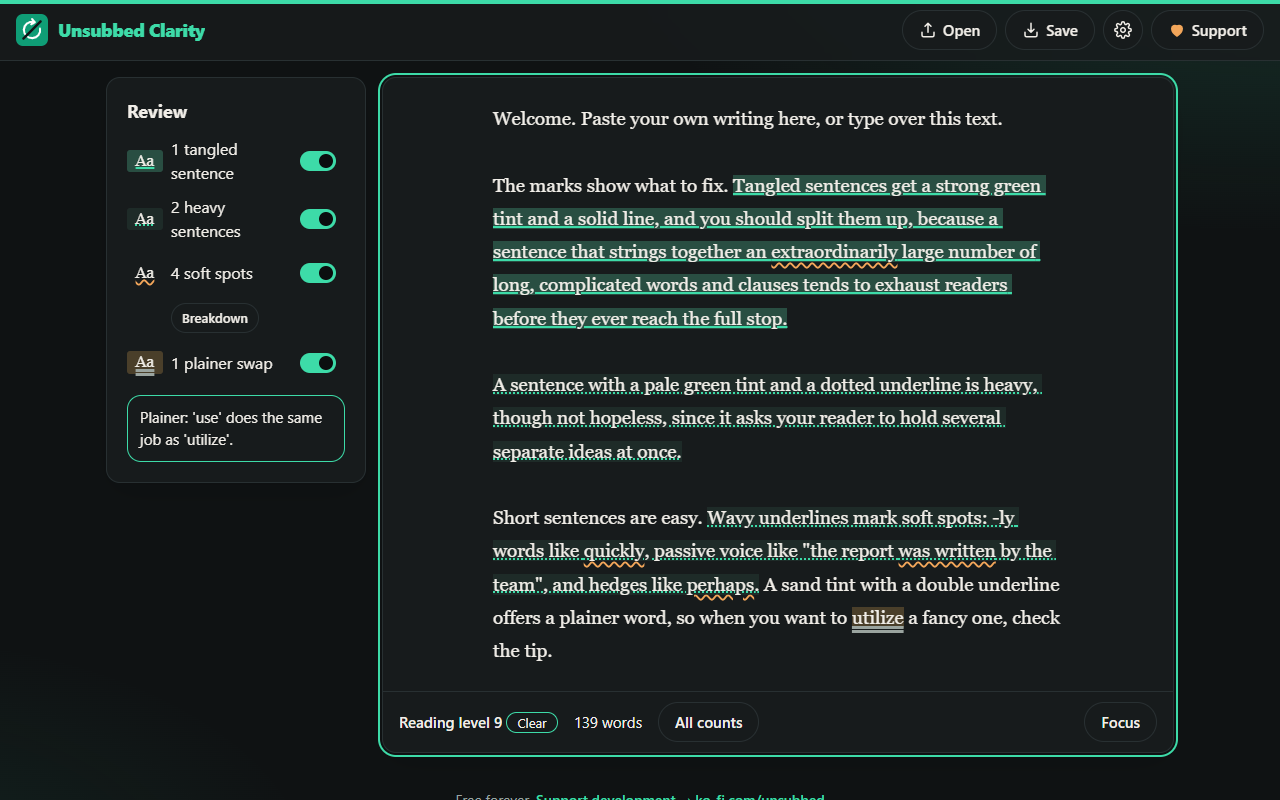
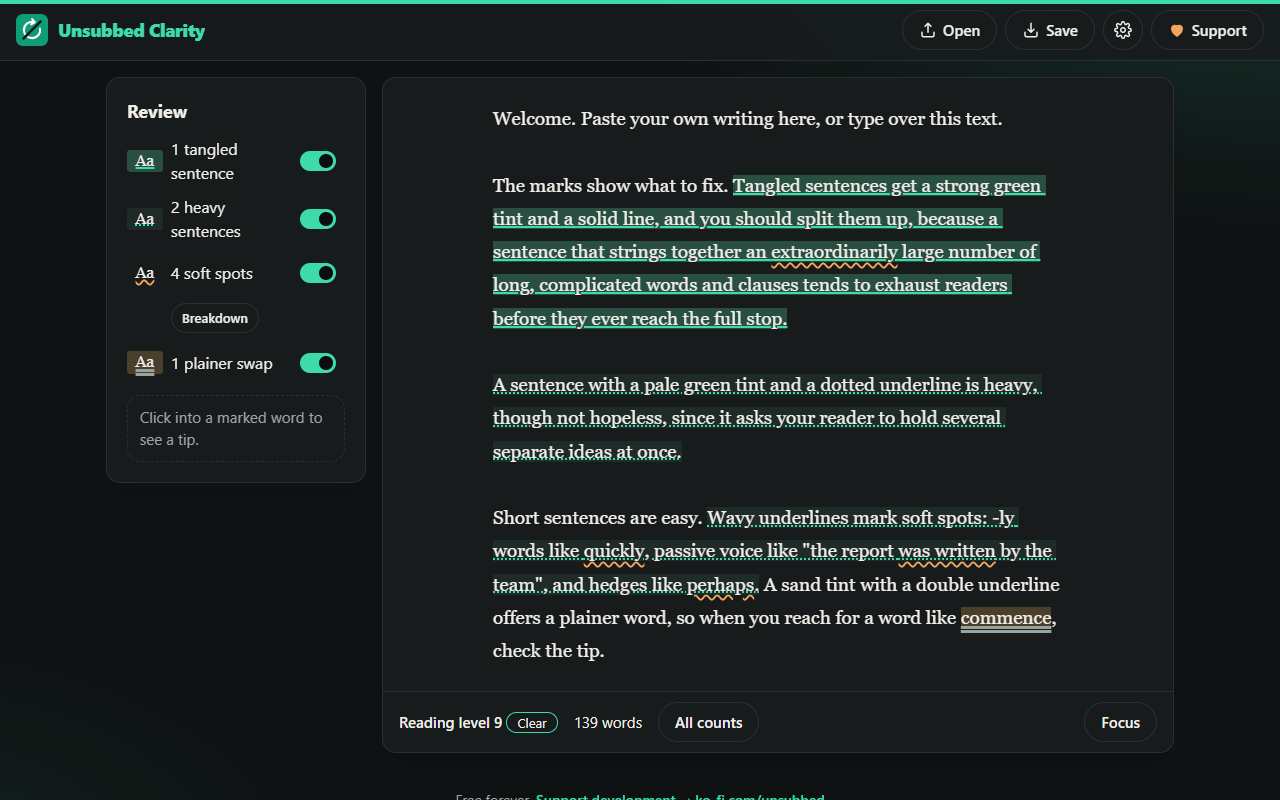
Add trademark non-affiliation notice; use a different sample word; refresh screenshots

Changed region(s): [[0.625, 0.75, 0.8438, 0.8125], [0.0938, 0.5, 0.25, 0.5625], [0.375, 0.7812, 0.4688, 0.8438]]

diff --git a/app.js b/app.js
@@ -8,7 +8,7 @@ The marks show what to fix. Tangled sentences get a strong green tint and a soli
 
 A sentence with a pale green tint and a dotted underline is heavy, though not hopeless, since it asks your reader to hold several separate ideas at once.
 
-Short sentences are easy. Wavy underlines mark soft spots: -ly words like quickly, passive voice like "the report was written by the team", and hedges like perhaps. A sand tint with a double underline offers a plainer word, so when you want to utilize a fancy one, check the tip.`;
+Short sentences are easy. Wavy underlines mark soft spots: -ly words like quickly, passive voice like "the report was written by the team", and hedges like perhaps. A sand tint with a double underline offers a plainer word, so when you reach for a word like commence, check the tip.`;
 
 const ROW_OF = { veryhard: 'veryhard', hard: 'hard', adverb: 'soft', passive: 'soft', qualifier: 'soft', simpler: 'simpler' };
 const ROWS = ['veryhard', 'hard', 'soft', 'simpler'];

diff --git a/index.html b/index.html
@@ -64,6 +64,7 @@
   <footer class="u-foot">
     Free forever. <a href="https://ko-fi.com/unsubbed" target="_blank" rel="noopener">Support development → ko-fi.com/unsubbed</a>
     <br>Open source under AGPL-3.0 · Your files never leave your device.
+    <br><small class="u-legal">Hemingway Editor is a trademark of its owner. Unsubbed is independent and not affiliated with or endorsed by them.</small>
   </footer>
 
   <dialog id="u-settings">

diff --git a/kit.css b/kit.css
@@ -77,6 +77,7 @@ a { color: var(--accent-strong); }
 main { flex: 1; width: 100%; max-width: 1040px; margin: 0 auto; padding: 1.75rem 1rem; }
 .u-foot { padding: 1.25rem 1rem; text-align: center; color: var(--muted); font-size: .875rem; }
 .u-foot a { font-weight: 600; }
+.u-legal { display: inline-block; margin-top: .25rem; font-size: .75rem; opacity: .8; }
 
 /* Buttons: pills */
 .u-btn {

diff --git a/README.md b/README.md
@@ -27,6 +27,9 @@ It's a plain web page with no build step. Download this repository and serve the
 
 Free forever. Support development → [ko-fi.com/unsubbed](https://ko-fi.com/unsubbed) · New app every day → [@unsubbed_org on X](https://x.com/unsubbed_org)
 
+## Not affiliated
+Hemingway Editor is a trademark of its owner. Unsubbed is an independent, clean-room project and is not affiliated with, sponsored by or endorsed by them. We mention the name only to describe what this app is an alternative to.
+
 ## License & contributing
 Unsubbed apps are licensed under the [GNU AGPL-3.0](LICENSE). If you share a modified version or run it as a service, you must publish your changes under the same license.
 

diff --git a/SPEC.md b/SPEC.md
@@ -93,7 +93,7 @@ Grammar/spelling checking, AI rewrites, rich formatting, Word/HTML import-export
 ## 9. Acceptance checks
 - A 40-word single sentence of long words → Tangled.
 - "The ball was thrown by the boy." → passive soft spot.
-- "We will utilize it." → plainer word on "utilize", tip mentions "use".
+- "We will commence at noon." → plainer word on "commence", tip mentions "start".
 - Focus hides every mark; Review restores them. Ctrl+. toggles.
 - Each show/hide button hides only its kind and survives reload.
 - Reload keeps text, mode, toggles and target.
